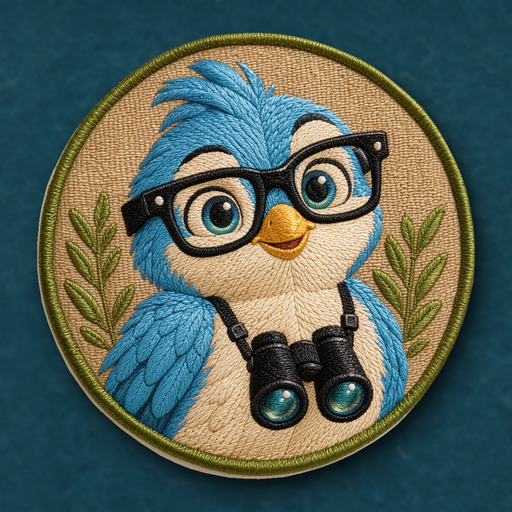
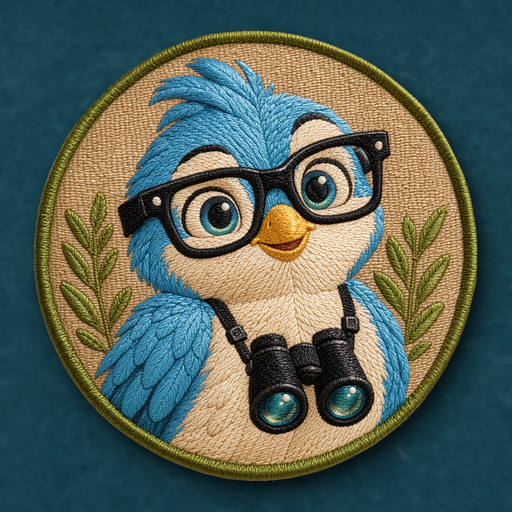
Mascot: what ships stops at the cord, and the launch screen's cache described as it behaves (#150)

diff --git a/packbuilder/tests/test_mascot_art.py b/packbuilder/tests/test_mascot_art.py
@@ -9,10 +9,11 @@ import shutil
 import numpy as np
 import pytest
 from PIL import Image, ImageDraw
+from scipy import ndimage
 
 from packbuilder import cli
 from packbuilder.comfy import ComfyClient
-from packbuilder.mascot_art import APP_ICONS, FELT_PICTURE, PERCHED_FINCH, PRIMARY_ICON, REPO, SIZE, MascotArtist, MascotBird, MascotLock, MascotPrompts, StaleApproval, approved, draw_sheets, review, shipped, write_app_assets
+from packbuilder.mascot_art import APP_ICONS, FELT_PICTURE, PERCHED_FINCH, PRIMARY_ICON, REPO, SIZE, MascotArtist, MascotBird, MascotLock, MascotPrompts, StaleApproval, approved, draw_sheets, review, shipped, trimmed_to_cord, write_app_assets
 from tests.comfy_stub import BACKGROUND, bird_on, serve
 
 FINCH, EGRET = "house-finch", "great-egret"
@@ -287,6 +288,93 @@ def test_the_finch_keeps_its_transparency_and_gains_a_soft_shadow(tmp_path):
         assert 0 < below < 255 and below > above, "the shadow falls below the patch, opposite the light"
         edges = (alpha[0, :], alpha[-1, :], alpha[:, 0], alpha[:, -1])
         assert max(edge.max() for edge in edges) <= 3, "the shadow is cut off at the picture's edge"
+
+
+def patch_on_its_card() -> Image.Image:
+    """A cut patch as the art has them: an olive cord round tan twill, and outside the cord at the lower left a crescent of
+    pale card and the painted shadow, which `cut_from_card` kept."""
+    patch = Image.new("RGBA", (1024, 1024), (0, 0, 0, 0))
+    draw = ImageDraw.Draw(patch)
+    draw.ellipse((3, 33, 973, 1021), fill=(222, 216, 204, 255))
+    draw.ellipse((33, 33, 993, 993), fill=(112, 120, 40, 255))
+    draw.ellipse((63, 63, 963, 963), fill=(205, 175, 125, 255))
+    return patch
+
+
+def test_what_ships_stops_at_the_cord_and_stays_centred():
+    trimmed = trimmed_to_cord(patch_on_its_card())
+    alpha = np.asarray(trimmed.getchannel("A"), dtype=int)
+    pixels = np.asarray(trimmed.convert("RGB"), dtype=int)
+    assert abs(trimmed.width - 960) <= 4 and abs(trimmed.height - 960) <= 4, "cropped to the cord, so the cord is what gets centred"
+    assert trimmed.width == trimmed.height
+    pale = (pixels.max(-1) - pixels.min(-1) < 30) & (alpha > 200)  # under the soft edge, a pixel of card has gone
+    assert not pale.any(), "card is left outside the cord"
+    middle = trimmed.width // 2
+    assert alpha[middle, 12] == 255 and abs(pixels[middle, 12] - (112, 120, 40)).max() <= 2, "the cord went with it"
+
+
+def test_the_shaded_outer_part_of_the_cord_stays():
+    """A cord's outer side is in shadow, dark but still olive. A test of colour by the amount alone took it for the painted
+    shadow, and thinned the cord by half on the hawk, the egret, the warbler and the jay."""
+    patch = Image.new("RGBA", (1024, 1024), (0, 0, 0, 0))
+    draw = ImageDraw.Draw(patch)
+    draw.ellipse((3, 33, 973, 1021), fill=(92, 86, 74, 255))  # the painted shadow on the card
+    draw.ellipse((33, 33, 993, 993), fill=(62, 66, 22, 255))  # the cord's shaded side
+    draw.ellipse((48, 48, 978, 978), fill=(112, 120, 40, 255))
+    draw.ellipse((63, 63, 963, 963), fill=(205, 175, 125, 255))
+    trimmed = trimmed_to_cord(patch)
+    assert abs(trimmed.width - 960) <= 4 and abs(trimmed.height - 960) <= 4
+    pixels = np.asarray(trimmed.convert("RGB"), dtype=int)
+    alpha = np.asarray(trimmed.getchannel("A"), dtype=int)
+    middle = trimmed.width // 2
+    assert alpha[middle, 6] == 255 and abs(pixels[middle, 6] - (62, 66, 22)).max() <= 2, "the shaded side of the cord went"
+
+
+def test_a_patch_with_nothing_outside_its_cord_loses_nothing():
+    patch = Image.new("RGBA", (1024, 1024), (0, 0, 0, 0))
+    ImageDraw.Draw(patch).ellipse((3, 3, 1020, 1020), fill=(112, 120, 40, 255))
+    before = (np.asarray(patch.getchannel("A")) > 128).sum()
+    after = (np.asarray(trimmed_to_cord(patch).getchannel("A")) > 128).sum()
+    assert after > before * 0.995
+
+
+@pytest.mark.parametrize("bird", [*APP_ICONS, PERCHED_FINCH])
+def test_no_approved_bird_keeps_card_outside_its_cord_and_none_loses_its_cord(bird):
+    """Along each ray in from the edge: how far before thread, which even in its shadows has some colour. The approved files
+    keep their rims, up to about 11 px of 1024; a ray that lands in a dark stitch counts a few, so it's the 99th percentile."""
+    with Image.open(REPO / "art/mascot/approved" / f"{bird}.png") as opened:
+        patch = opened.convert("RGBA")
+    before, after = rim_widths(patch), rim_widths(trimmed_to_cord(patch))
+    assert np.percentile(after, 99) <= 3, f"{bird}: {np.percentile(after, 99)} px outside the cord"
+    assert np.percentile(after, 99) <= np.percentile(before, 99)
+    trimmed = trimmed_to_cord(patch)
+    assert min(trimmed.size) >= 960, f"{bird}: the trim took more than the rim"
+    assert ndimage.label(np.asarray(trimmed.getchannel("A")) > 0)[1] == 1, f"{bird}: a stray pixel outside the patch"
+
+
+def test_the_approved_files_are_not_touched(tmp_path):
+    felt_in(tmp_path)
+    lock = approved_tree(tmp_path)
+    before = {path.name: path.read_bytes() for path in (tmp_path / "mascot" / "approved").iterdir()}
+    write_app_assets(lock, tmp_path)
+    assert before == {path.name: path.read_bytes() for path in (tmp_path / "mascot" / "approved").iterdir()}
+
+
+def rim_widths(patch: Image.Image) -> np.ndarray:
+    pixels = np.asarray(patch, dtype=float)
+    solid = pixels[..., 3] > 128
+    saturation = pixels[..., :3].max(-1) - pixels[..., :3].min(-1)
+    ys, xs = np.nonzero(solid)
+    centre_y, centre_x = (ys.min() + ys.max()) / 2, (xs.min() + xs.max()) / 2
+    widths = []
+    for angle in np.linspace(0, 2 * np.pi, 720, endpoint=False):
+        radii = np.arange(max(patch.size) / 2 + 8, 300, -0.5)
+        along_x = np.clip((centre_x + radii * np.cos(angle)).astype(int), 0, patch.width - 1)
+        along_y = np.clip((centre_y + radii * np.sin(angle)).astype(int), 0, patch.height - 1)
+        first = int(np.argmax(solid[along_y, along_x]))
+        thread = int(np.argmax(saturation[along_y[first:], along_x[first:]] >= 30))
+        widths.append(radii[first] - radii[first + thread])
+    return np.array(widths)
 
 
 def test_nothing_is_written_from_a_file_the_review_did_not_choose(tmp_path):

diff --git a/packbuilder/src/packbuilder/mascot_art.py b/packbuilder/src/packbuilder/mascot_art.py
@@ -17,8 +17,9 @@ SHA-256 (its file in `<cache>/mascot/patches/`), and the review:
   them back, and refuses a file that isn't the one the review chose.
 - `rejected`: the next run paints a new round from new seeds with the current templates.
 
-`write_app_assets` makes the app's art from the approved patches: the app icons on felt, the Settings thumbnails and the
-perched finch. Nothing else writes those files, and it refuses a bird without an approved patch.
+`write_app_assets` makes the app's art from the approved patches, each trimmed to its cord (`trimmed_to_cord`): the app icons on
+felt, the Settings thumbnails and the perched finch. Nothing else writes those files, and it refuses a bird without an approved
+patch.
 
 A warm lock paints nothing. A candidate no longer in the cache is painted again from its seed, which gives the same
 picture on the same prompts version. A new icon or workflow starts a new round, since the review no longer applies; new
@@ -35,7 +36,10 @@ import zlib
 from dataclasses import dataclass, field
 from pathlib import Path
 
+import numpy as np
 from PIL import Image, ImageChops, ImageDraw, ImageFilter
+from scipy import ndimage
+from scipy.spatial import ConvexHull
 
 from packbuilder.art import ART_DIR, Workflow
 from packbuilder.comfy import ComfyClient, PaintingFailed
@@ -74,6 +78,14 @@ APP_ICONS = {
 PRIMARY_ICON = "red-tailed-hawk"
 """The icon the build installs, and so the one the App Store shows at 1024 px."""
 PERCHED_FINCH = "perched-finch"
+CORD_BAND = 45
+"""How far in from a cut patch's edge its cord can start, past the card outside it, in pixels of 1024."""
+CORD_SATURATION = 0.38
+"""Thread's colour, as (largest channel less smallest) over the largest: the olive and terracotta cords have it even in their
+shadows, and pale card and the shadow painted on it don't. As an amount rather than a share, it took the shaded side of the cord."""
+CORD_DARKEST = 45
+"""Below this the largest channel is too dark for a share to mean anything."""
+CORD_EDGE_SOFTENING = 0.9
 ALTERNATE_ICON_SIDE = 512
 """An alternate icon's picture: never seen above 180 px, and a 1024 px one costs the app about 1.3 MB more per icon."""
 ICON_CANVAS = 1024
@@ -412,6 +424,28 @@ def _rgba(path: Path) -> Image.Image:
         return opened.convert("RGBA")
 
 
+def trimmed_to_cord(patch: Image.Image) -> Image.Image:
+    """The patch as far as its cord, cropped to it. Outside the cord an approved file can still hold pale card and the shadow
+    painted on it, up to about 11 px of 1024, which `trim_rim` was too careful to take: on felt it reads as a paper disc under the patch.
+    The convex hull of the saturated thread near the edge is the patch's outline, since card and shadow have no colour. Only the
+    alpha changes, here at build time, so the maintainer's approved file and its hash stay as reviewed."""
+    pixels = np.asarray(patch.convert("RGBA"), dtype=float)
+    rgb, alpha = pixels[..., :3], pixels[..., 3]
+    solid = alpha > 128
+    distance = ndimage.distance_transform_edt(solid)
+    largest = rgb.max(-1)
+    thread = solid & (distance <= CORD_BAND) & (largest - rgb.min(-1) >= CORD_SATURATION * largest) & (largest >= CORD_DARKEST)
+    thread = ndimage.binary_opening(thread, iterations=2)  # takes a thin warm sliver of card, which isn't thread
+    ys, xs = np.nonzero(ndimage.binary_erosion(thread) ^ thread)
+    points = np.column_stack([xs, ys])
+    outline = Image.new("L", patch.size, 0)
+    ImageDraw.Draw(outline).polygon([tuple(map(float, point)) for point in points[ConvexHull(points).vertices]], fill=255)
+    # The soft edge sits just inside the outline, so the pixel of card against the cord goes too.
+    edge = np.clip(ndimage.gaussian_filter(np.asarray(outline, dtype=float) / 255, CORD_EDGE_SOFTENING) * 1.6 - 0.6, 0, 1)
+    trimmed = Image.fromarray(np.dstack([rgb, edge * alpha]).round().astype(np.uint8), "RGBA")
+    return trimmed.crop(trimmed.getchannel("A").getbbox())
+
+
 def _on_shadow(patch: Image.Image, canvas: Image.Image, size: int) -> Image.Image:
     """`patch` resized to fit `size` in the middle of `canvas`, with its soft drop shadow. `canvas` keeps its mode's alpha."""
     placed = patch.copy()
@@ -485,7 +519,7 @@ def write_app_assets(lock: MascotLock, repo: Path = REPO) -> list[Path]:
         written.append(path)
 
     for bird, icon in APP_ICONS.items():
-        patch = _rgba(patches[bird])
+        patch = trimmed_to_cord(_rgba(patches[bird]))
         side = ICON_CANVAS if bird == PRIMARY_ICON else ALTERNATE_ICON_SIDE
         bundle = repo / "BirdJournal" / f"{icon}.icon"
         put(bundle / "Assets" / f"{bird}.png", png(app_icon(patch, felt, side)))
@@ -493,7 +527,7 @@ def write_app_assets(lock: MascotLock, repo: Path = REPO) -> list[Path]:
         thumbnail = app_icon(patch, felt, ICON_THUMBNAIL)
         put(catalog / "AppIconPreview" / f"{icon}.imageset" / f"{icon}.png", png(thumbnail))
         put(catalog / "AppIconPreview" / f"{icon}.imageset" / "Contents.json", _imageset([(f"{icon}.png", "1x")]))
-    patch = _rgba(patches[PERCHED_FINCH])
+    patch = trimmed_to_cord(_rgba(patches[PERCHED_FINCH]))
     finch = catalog / "PerchedFinch.imageset"
     for scale in (2, 3):
         put(finch / f"PerchedFinch@{scale}x.png", png(perched_finch(patch, scale)))

diff --git a/docs/screenshots/150/mascot/icon-edges.py b/docs/screenshots/150/mascot/icon-edges.py
@@ -1,0 +1,21 @@
+"""Issue #150 slice 11: each icon's lower-left arc at its own 1024 px, from the approved patch as it was (top) and trimmed to its
+cord as it ships (bottom), on the icon's felt. Run from packbuilder/, which has the module:
+
+cd packbuilder && uv run python ../docs/screenshots/150/mascot/icon-edges.py ../docs/screenshots/150/mascot/icon-edges-before-after.jpg
+"""
+import sys
+from pathlib import Path
+
+from PIL import Image
+
+from packbuilder import mascot_art as mascot
+
+felt = Image.open(mascot.REPO / mascot.FELT_PICTURE).convert("RGBA")
+SIDE = 330
+sheet = Image.new("RGB", (len(mascot.APP_ICONS) * (SIDE + 8) + 8, 2 * SIDE + 24), (40, 40, 40))
+for index, bird in enumerate(mascot.APP_ICONS):
+    patch = Image.open(mascot.REPO / "art/mascot/approved" / f"{bird}.png").convert("RGBA")
+    arc = (170, 640, 170 + SIDE, 640 + SIDE)
+    sheet.paste(mascot.app_icon(patch, felt, 1024).crop(arc), (8 + index * (SIDE + 8), 8))
+    sheet.paste(mascot.app_icon(mascot.trimmed_to_cord(patch), felt, 1024).crop(arc), (8 + index * (SIDE + 8), SIDE + 16))
+sheet.save(Path(sys.argv[1]), quality=90)

diff --git a/DECISIONS.md b/DECISIONS.md
@@ -1072,8 +1072,8 @@ The maintainer's picks ship as they are: finch on peach, the others on tan, the 
 - **Flattened, with no glass.** One opaque RGB picture with the shadow in it, over a solid fill, `specular` and group shadow off, so the system adds no rim to cloth. A layered icon went black behind the patch in Dark, so the ground wouldn't be the ground. Tinted and Clear are the system's monochrome of the whole square.
 - **Size.** iOS keeps three lossless 1024 px renderings of each icon, so an icon's cost follows its entropy, not its picture's size. Fine felt fibre cost about 1.3 MB an icon and a 1024 px picture about another 1.3 MB, neither visible by 180 px, so the felt is softened (3 px blur at 1024) and the alternates are 512 px; only the primary, which the App Store shows, is 1024. `Assets.car` for an iPhone went from 42.61 MB to 42.03 MB (0.58 MB smaller), with the finch at 0.59 MB in it, measured from Debug simulator builds; the whole app bundle is within 0.3 MB of what it was.
 - **One finch picture**, `PerchedFinch`, 240 pt square with the 200 pt patch and its shadow baked in, because a launch screen can't draw a shadow. The launch screen, the splash and the states all draw it, so nothing shifts between launch and splash. The title keeps its offset from the bottom of the picture, which is taller than the drawing's, so it sits 48 pt lower; that keeps the splash's change to the art, for slice 3. It's the same picture in both appearances, so its shadow is stronger than the lit patches' 38% and 28%: at their strength it vanished on the dark felt.
-- **The launch screen is blank right after an install over the old build**, on the simulator, until it restarts: the system's launch-screen process keeps the last build's catalog for this bundle ID, so `PerchedFinch` isn't in what it reads. With the old name it showed the old drawing, and after a restart the finch shows. Only the colour shows for that moment and the splash brings the finch in, so the new name stays. Whether a phone does this after an update is an on-phone check.
-- **A pale rim stays in the picks.** Each approved patch keeps a thin pale line of card outside its cord in places (about 3 px of 1024 on the finch, on its lower sides; `docs/screenshots/150/mascot/finch-edge-sliver.jpg`). It's in the art, not the shadow, and it stays because the picks don't change here. Only the maintainer can say whether it matters.
+- **The launch screen can show only its colour after an install over a build with the old picture.** It's the system's cache, not the app: `com.apple.splashboard` keeps the old asset catalog, where `PerchedFinch` doesn't exist. On the simulator, uninstalling first and bumping the version both stayed blank, and once launched that way the blank snapshot survived a restart; only a later install cleared it. A restart between the install and the first launch shows the finch, which is how the evidence is taken. The worst case is the paper colour, and on first launch the splash then brings the finch in. Whether a phone does this after an update is an on-phone check.
+- **What ships stops at the cord** (`trimmed_to_cord`, at build time). The cut patches kept pale card and the shadow painted on it outside the cord, up to about 11 px of 1024 and on every bird: plain on the 1024 px primary icon and on the dark launch screen, faint at 60 pt. The outline is the convex hull of the thread near the edge, and the patch is cropped to it so it stays centred. Only the alpha changes, in the app's copies: the approved files and their hashes are as the maintainer chose them. Thread is told from card by the share of its colour, not the amount: (largest channel less smallest) of at least 38% of the largest. An amount (60) took the cord's shaded outer side for the painted shadow and cut up to 32 px into it, thinning the cord by half on the hawk, the egret, the warbler and the jay. Before and after: `docs/screenshots/150/mascot/icon-edges-before-after.jpg`.
 - **In a state**, `StateNotice`'s `.drawing`, the patch is 110 pt at the default text size, growing to about 167 pt at the largest, with a cap so the words stay near. The glasses read at 110 pt.
 - **Where it went.** The empty collection, where the drawing was, and Settings → Account signed out, the one sign-in page without an emblem. The Guilds sign-in and join pages keep the emblem: they never had the drawing, and the issue's "Sign-in and join" says both show the emblem, with slices 7 and 8 adding the samples. Other states keep the mark they had: an emblem or a symbol says more than a bird would on "No Guilds yet" or "No field guide yet".
 - **The mascot isn't a found bird.** The guide's "a patch means someone found this bird" is about a place's birds. The finch is the app's own character and names no sighting, so it may sit on an empty collection, as the issue's story asks. It's a picture at the head of the Account page too, though Settings is otherwise plain iOS, because the issue asks for it on sign-in and that page has no other mark.

diff --git a/packbuilder/README.md b/packbuilder/README.md
@@ -261,7 +261,7 @@ uv run packbuilder mascot-assets                            # the app's art from
 - **What it's painted from**: the app icon it replaces, kept in `art/mascot/icons/`, the bird cut out of the icon's ground by BiRefNet and laid on white. No prompt names the species; the glasses and binoculars are spelled out, and each bird's `markings` hold the colours the thread drifts on. Each round paints the looks in the prompts' `round`: a head-and-shoulders portrait or the whole bird, on the Los Angeles edition's tan twill and olive cord or on the icon's own peach.
 - **Cut at 1024 px**, the size of an app icon, from a 1152 px square canvas (`cut_from_card`, retried as a pack's patch is when a corner of the card peels into the cut). There's no measure against the reference: a thread rendering of a 3D cartoon is meant to move from it.
 - **Reviewed by number**: numbers are unique across rounds, so a number on an old sheet never means another painting. Approving writes `art/mascot/approved/<bird>.png`, with its pale rim trimmed (`trim_rim`; a thin line can survive), and records its SHA-256; `mascot_art.approved` refuses a file that isn't the one chosen. Commit the lock and the approved file together. A rejected bird paints a new round next run with the current templates; a new prompts version alone leaves pending and approved rounds alone; a new icon or workflow starts a round and takes the approval back.
-- **What ships**: `mascot-assets` writes each `.icon`'s picture and document, its Settings thumbnail and the `PerchedFinch` imageset from `mascot_art.approved`, and refuses a bird without an approved patch. `test_mascot_art.py` compares what it makes, pictures and documents, with what's committed. An icon is the patch and its shadow on the app's felt in petrol, flattened, with no alpha channel; the primary is 1024 px for the App Store and the alternates 512 px. Run it after approving a new patch, and commit the result with the lock.
+- **What ships**: `mascot-assets` writes each `.icon`'s picture and document, its Settings thumbnail and the `PerchedFinch` imageset from `mascot_art.approved`, and refuses a bird without an approved patch. `test_mascot_art.py` compares what it makes, pictures and documents, with what's committed. Each patch is first trimmed to its cord (`trimmed_to_cord`), in the app's copy only, since the approved file can keep a little card outside it. An icon is the patch and its shadow on the app's felt in petrol, flattened, with no alpha channel; the primary is 1024 px for the App Store and the alternates 512 px. Run it after approving a new patch, and commit the result with the lock.
 - **The cache** is `packbuilder/cache/mascot/` and gitignored; `mascot-review` needs the candidate you pick in it, and `mascot` paints a lost one again from its seed.
 - **Running it**: about 12 s a painting, plus a peeled retry now and then. On the box itself: copy `packbuilder/src`, the `art` files and the icons to a checkout-shaped folder (`~/birdjournal-art/mascot-run`), run `PYTHONPATH=packbuilder/src ~/comfyui-flux3/.venv/bin/python -m packbuilder.cli mascot --comfy http://127.0.0.1:8189 --cache packbuilder/cache/mascot`, then copy `art/mascot/mascot.lock.json`, the cache and `build/mascot/` back.
 

diff --git a/docs/screenshots/150/mascot/README.md b/docs/screenshots/150/mascot/README.md
@@ -10,7 +10,8 @@ Audit pick V7. The six birds in glasses as the app icon choices, and the perched
 | Each icon on a simulator home screen, beside today's hawk, at true pixels | `home-icons.jpg` (whole screens: `sheets/home-screen.jpg`) |
 | The icon in the system's appearances (Icon Composer's renderings) | `icon-appearances.jpg` |
 | Settings → App icon, dark, light and ax5 | `sheets/settings-icons.jpg`; its thumbnails beside the ones they replace: `icon-thumbnails.jpg` |
-| The pale rim in the approved finch, four times size, with no shadow | `finch-edge-sliver.jpg` |
+| The card outside the cord in the approved finch, four times size, which the build trims | `finch-edge-sliver.jpg` |
+| Each icon's lower-left arc at 1024 px, the approved patch above and what ships below | `icon-edges-before-after.jpg` |
 | The finch's glasses at true pixels, at the size a state uses and at ax5 | `finch-true-pixels-large.jpg`, `finch-true-pixels-ax5.jpg` |
 
 Unchanged, on purpose: the Listen hero (its fallback still draws `PerchedBirdDrawing`), set headers, the Guilds sign-in and join pages, which keep the emblem, and the states with another mark. See `DECISIONS.md`, "The mascot in the app".
